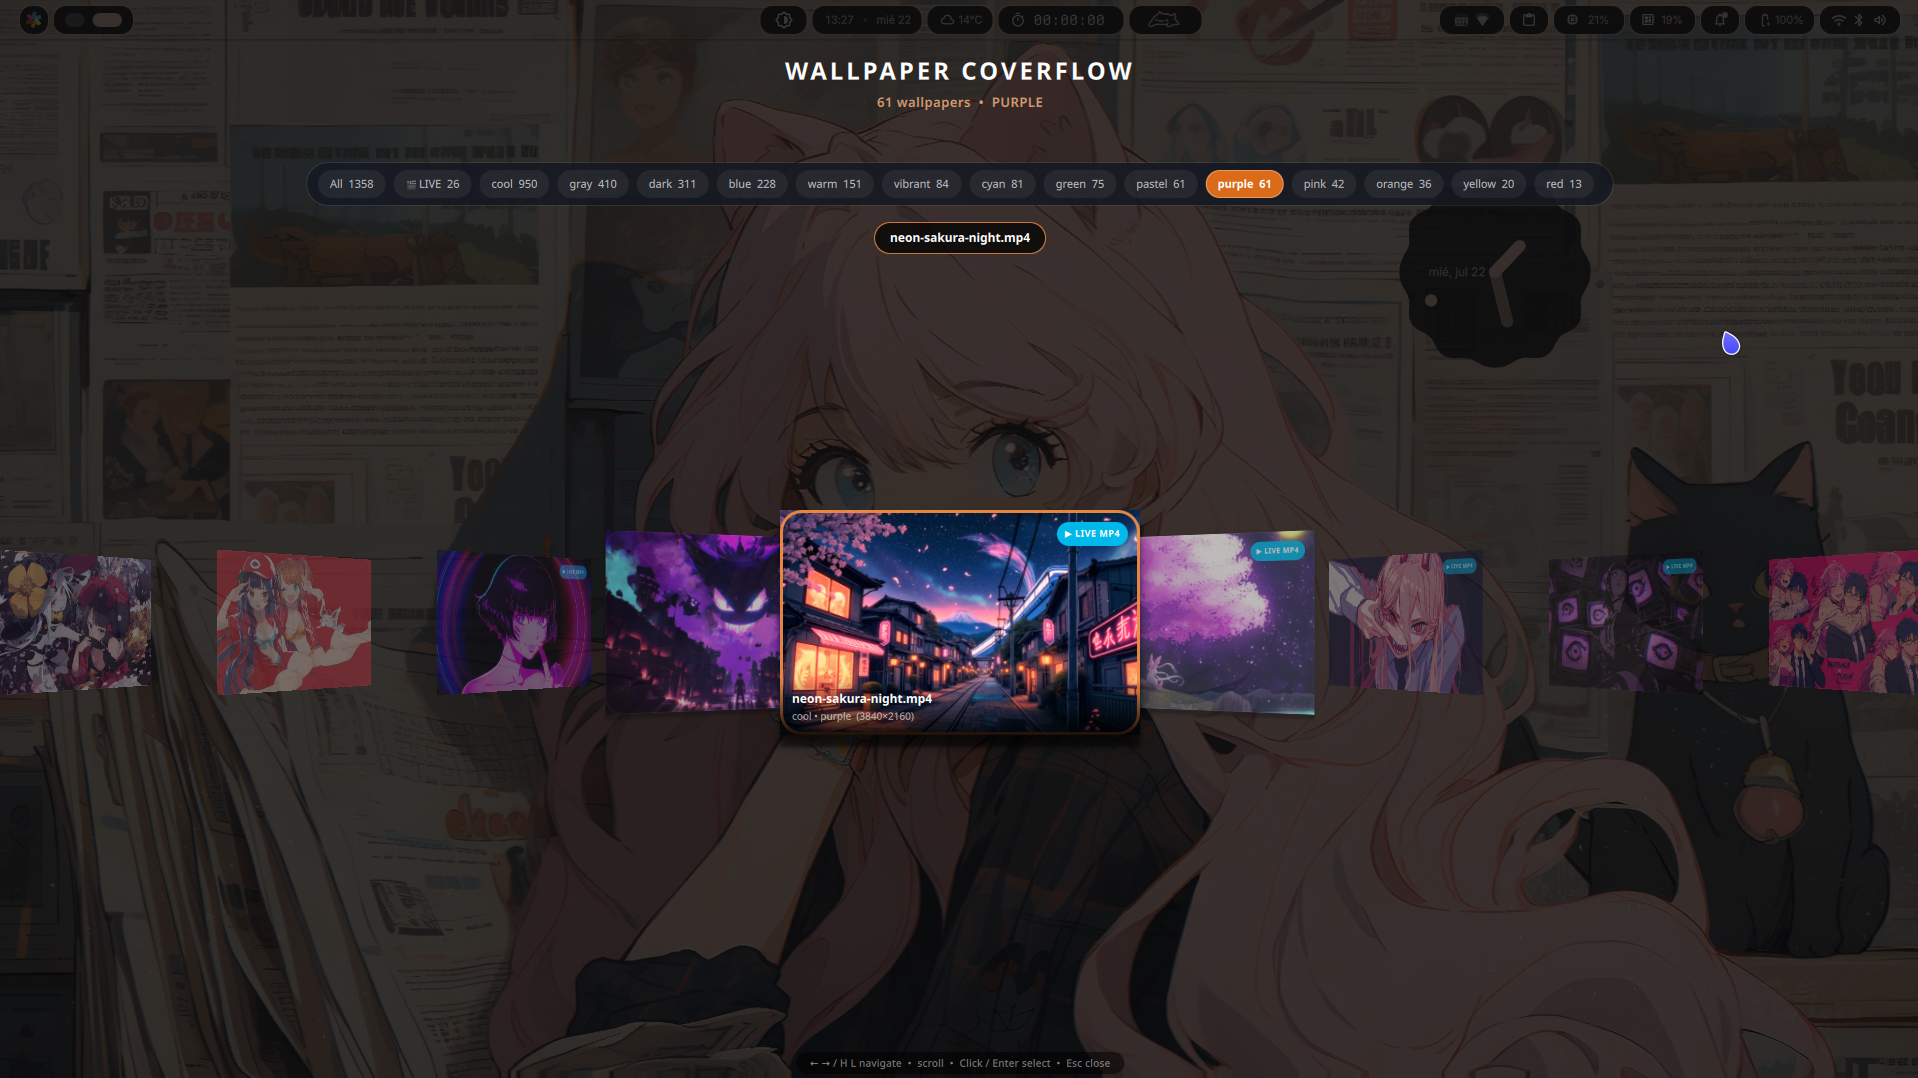
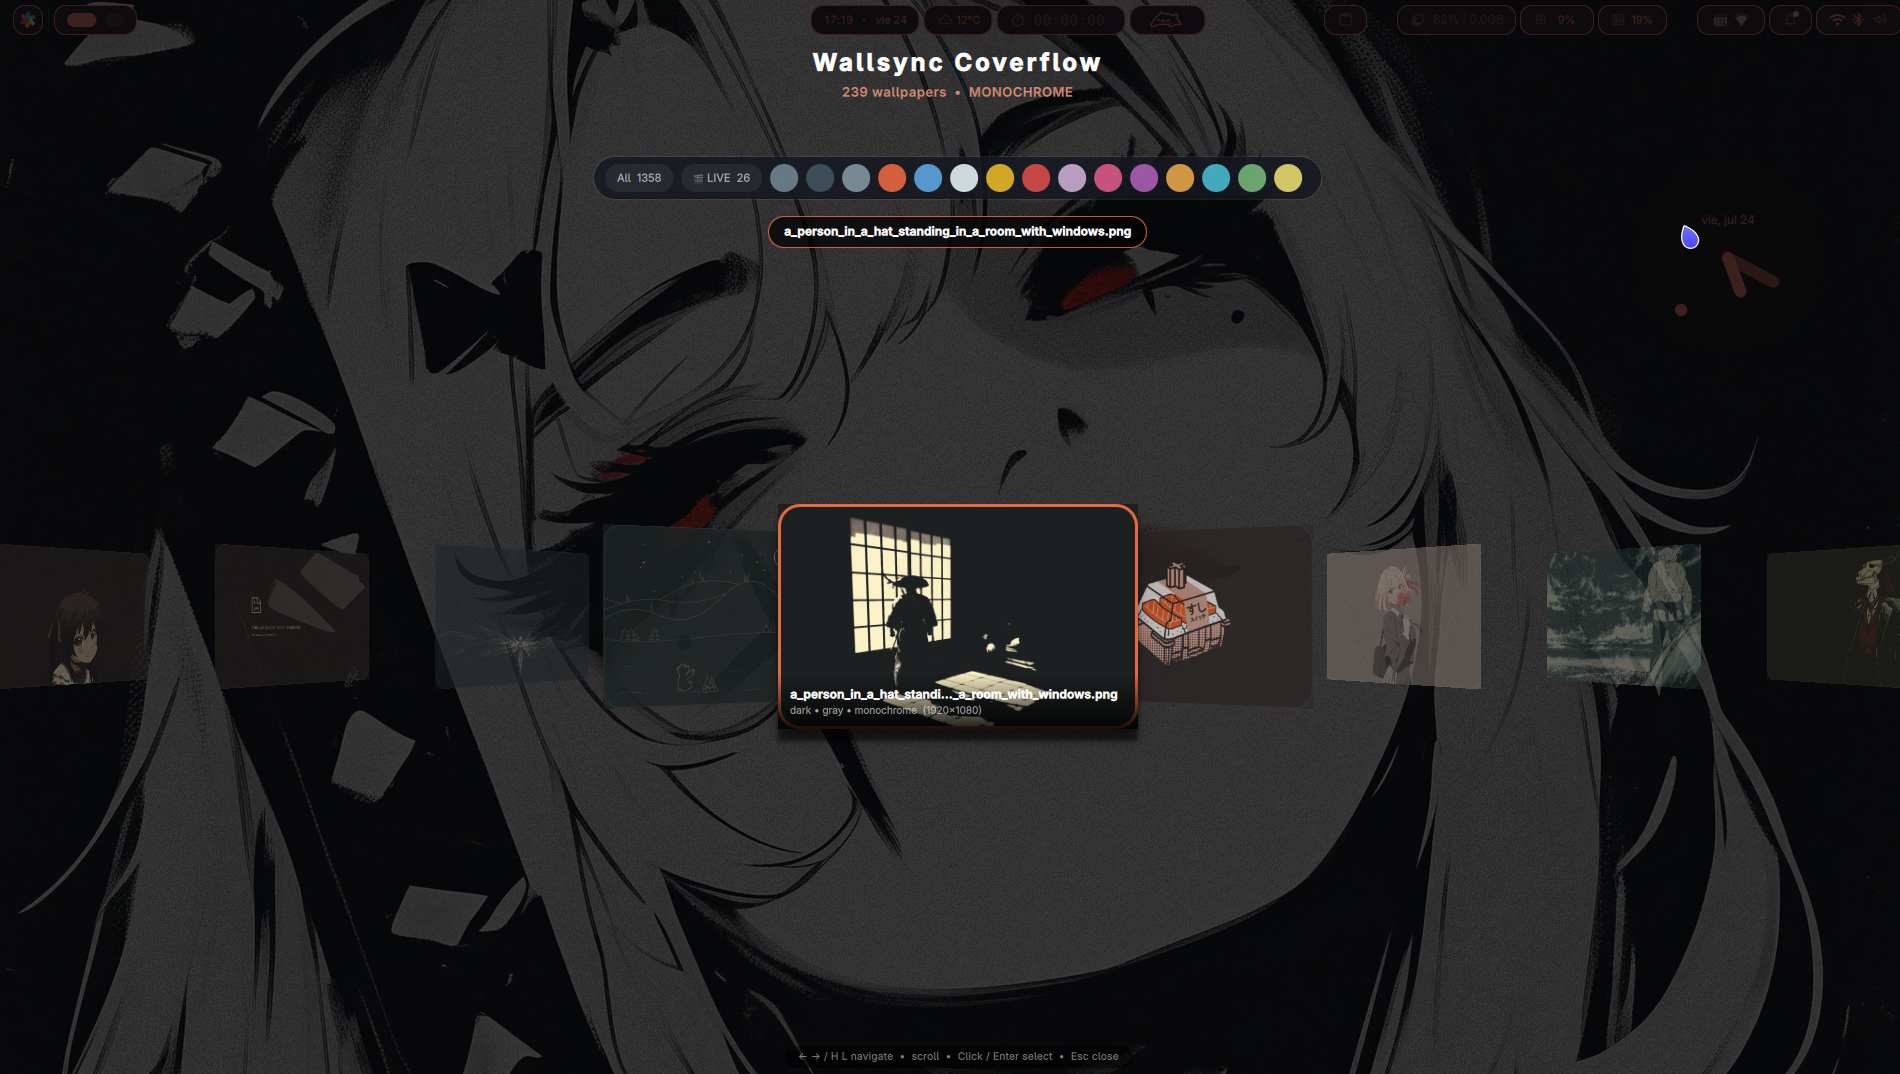
docs: update README.md and add high fidelity preview media
- Added preview.png screenshot of the updated Coverflow picker
- Added preview.gif showcasing dynamic picker transitions
- Documented wallsync-dms settings, keybindings and features

diff --git a/README.md b/README.md
@@ -1,5 +1,5 @@
 <p align="center">
-  <img src="preview.gif" alt="wallsync picker preview" width="800"/>
+  <img src="preview.gif" alt="wallsync coverflow picker gif preview" width="800"/>
 </p>
 
 <h1 align="center">🎨 wallsync-dms</h1>
@@ -12,21 +12,23 @@
 
 ## ✨ Features
 
-- **🎨 Dynamic Material You colors** — Fully integrated with Matugen and DankMaterialShell settings.
-- **🎠 Efficient 3D Coverflow** — Recalculated scaling, rendering and shadows only for the main card to guarantee a clean 0% GPU/CPU footprint in standby.
+- **🎨 Dynamic Material You colors** — Fully integrated with Matugen and DMS. Colors are automatically extracted and pushed to all active outputs to trigger system themes dynamically.
+- **🎠 Efficient 3D Coverflow** — Optimizations limit render resources and shadow computations only to the active focal card, ensuring a clean 0% GPU/CPU footprint on standby.
 - **⚡ Wayland Standalone Overlay** — The Coverflow picker overlay runs in an isolated Quickshell process under demand and is completely killed on select or ESC to free resources.
-- **🖥 Perceptual HSL matching** — Coordinating monitor pairings according to human HSL vision perception weights.
+- **👁 Perceptual HSL matching** — Coordinates secondary monitors matching according to human HSL vision perception weights, using a strict vectorial average for dominant Hue.
+- **🎨 Monochrome Vibe filter** — Grayscale and neutral wallpapers are indexed under an exclusive `monochrome` vibe, cleaning color filter lists.
 - **📦 No Python pip requirements** — Developed purely using python standard libraries.
 
 ---
 
 ## ⚙ Settings
 
-Configurable directly from your DMS Settings Panel -> Plugins -> Wallsync:
+Configurable directly from your DMS Settings Panel -> Complementos -> Wallsync DMS:
 - **Wallpaper Directories**: Set directories as comma-separated values (e.g. `~/Pictures/Wallpapers`).
-- **Transition Settings**: Configure swww/awww transition type (grow, fade, wave, wipe, outer, etc.) and speed step.
+- **Transition Settings**: Configure awww transition type (grow, fade, wave, wipe, outer, etc.) and speed step.
 - **HSL Matching Weights**: Fine-tune the Hue, Saturation and Lightness weights.
 - **Index Workers**: Optimize the threading pool according to your CPU core count.
+- **Vibe Tag Style**: Choose between `Text with Color Dot` or a minimal `Color Dot Only` chip rendering.
 
 ---
 
@@ -40,26 +42,38 @@ chmod +x install.sh
 ```
 
 ### Enable the plugin
-1. Open DMS Settings (Super + Space -> Settings -> Plugins).
+1. Open DMS Settings (Super + Space -> Settings -> Plugins/Complementos).
 2. Click **Scan for Plugins**.
-3. Toggle the switch for **Wallsync** to enable the daemon.
+3. Toggle the switch for **Wallsync DMS** to enable the daemon.
 4. Set up your custom wallpaper directories inside the settings section.
-5. Generate the database using `wallsync index` from terminal (or bind it to a script).
+5. Generate the database using the command below:
+   ```bash
+   wallsync-dms index --force
+   ```
 
 ---
 
 ## ⌨ Binds (Niri config)
 
-Add the following inside your `config.kdl` to map keybindings:
+Add the following inside your `~/.config/niri/config.kdl` (or `~/.config/niri/dms/binds.kdl` inside the `binds` node) to map keybindings:
 
 ```kdl
 binds {
-    // Launch picker
-    Mod+Y { spawn "wallsync" "gui"; }
+    // Launch picker Coverflow Overlay
+    Mod+Alt+O { spawn "/home/iwiwih/.local/bin/wallsync-dms" "gui"; }
+    
     // Apply coordinated random wallpaper
-    Mod+Shift+Y { spawn "wallsync" "random"; }
+    Mod+Alt+Y { spawn "/home/iwiwih/.local/bin/wallsync-dms" "random"; }
 }
 ```
+
+---
+
+## 📸 Preview Screenshot
+
+<p align="center">
+  <img src="preview.png" alt="wallsync coverflow screenshot preview" width="800"/>
+</p>
 
 ---
 
